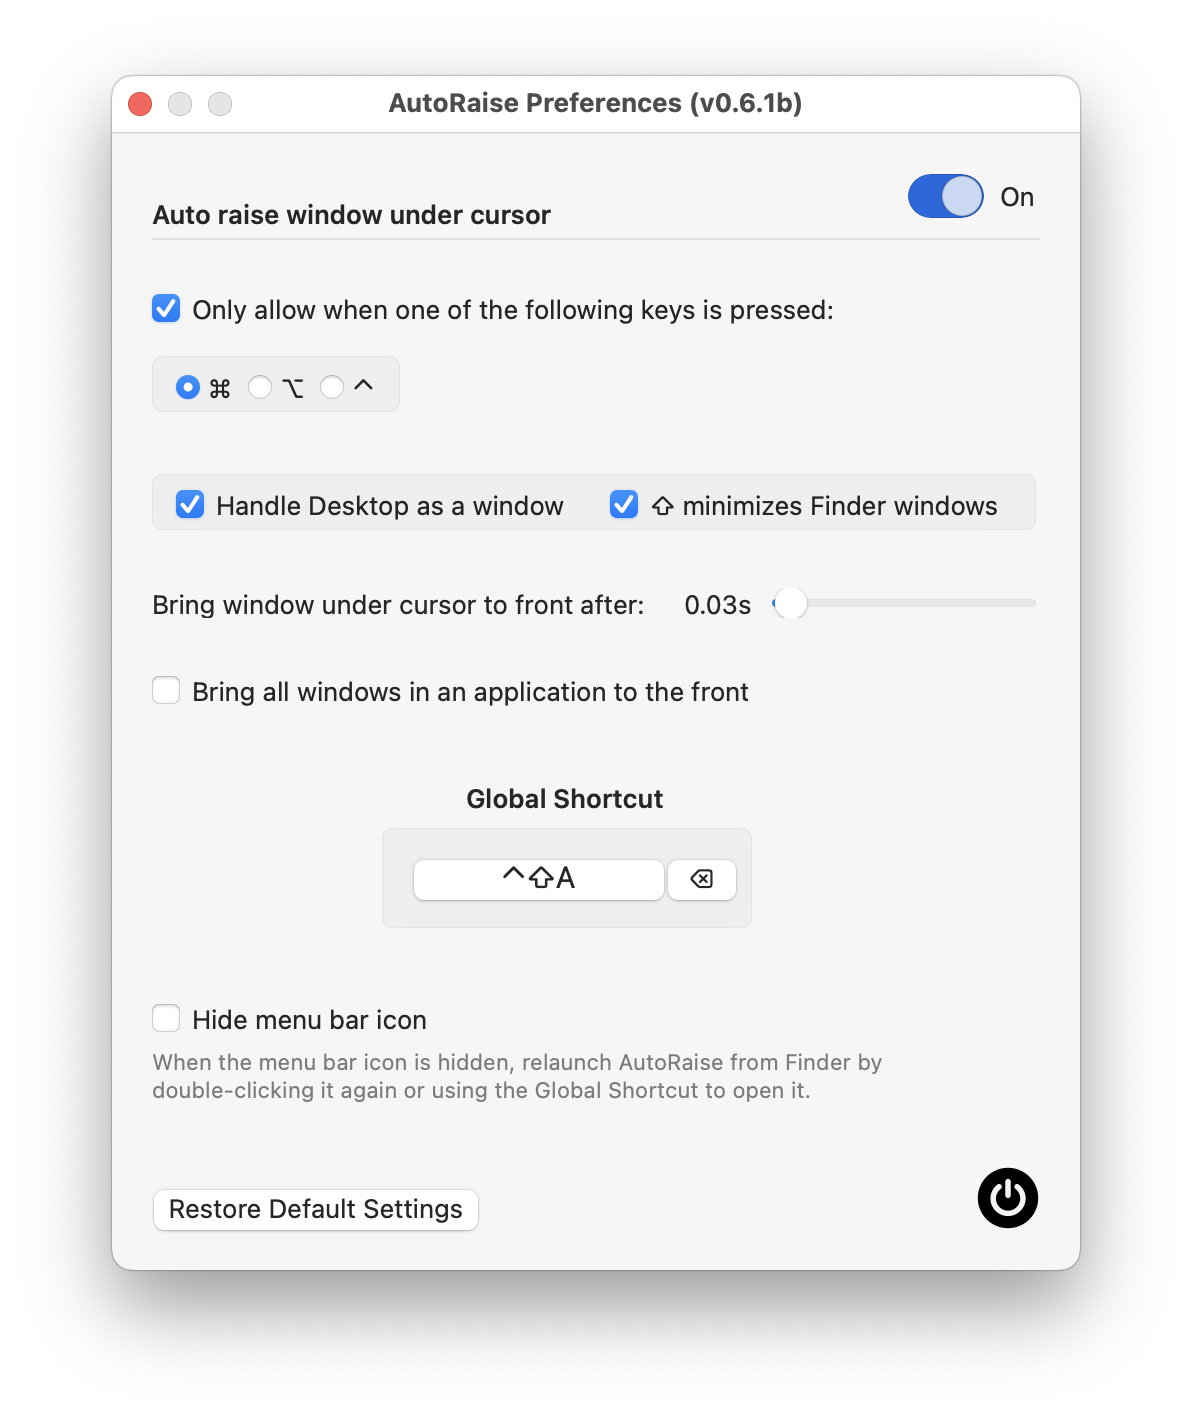
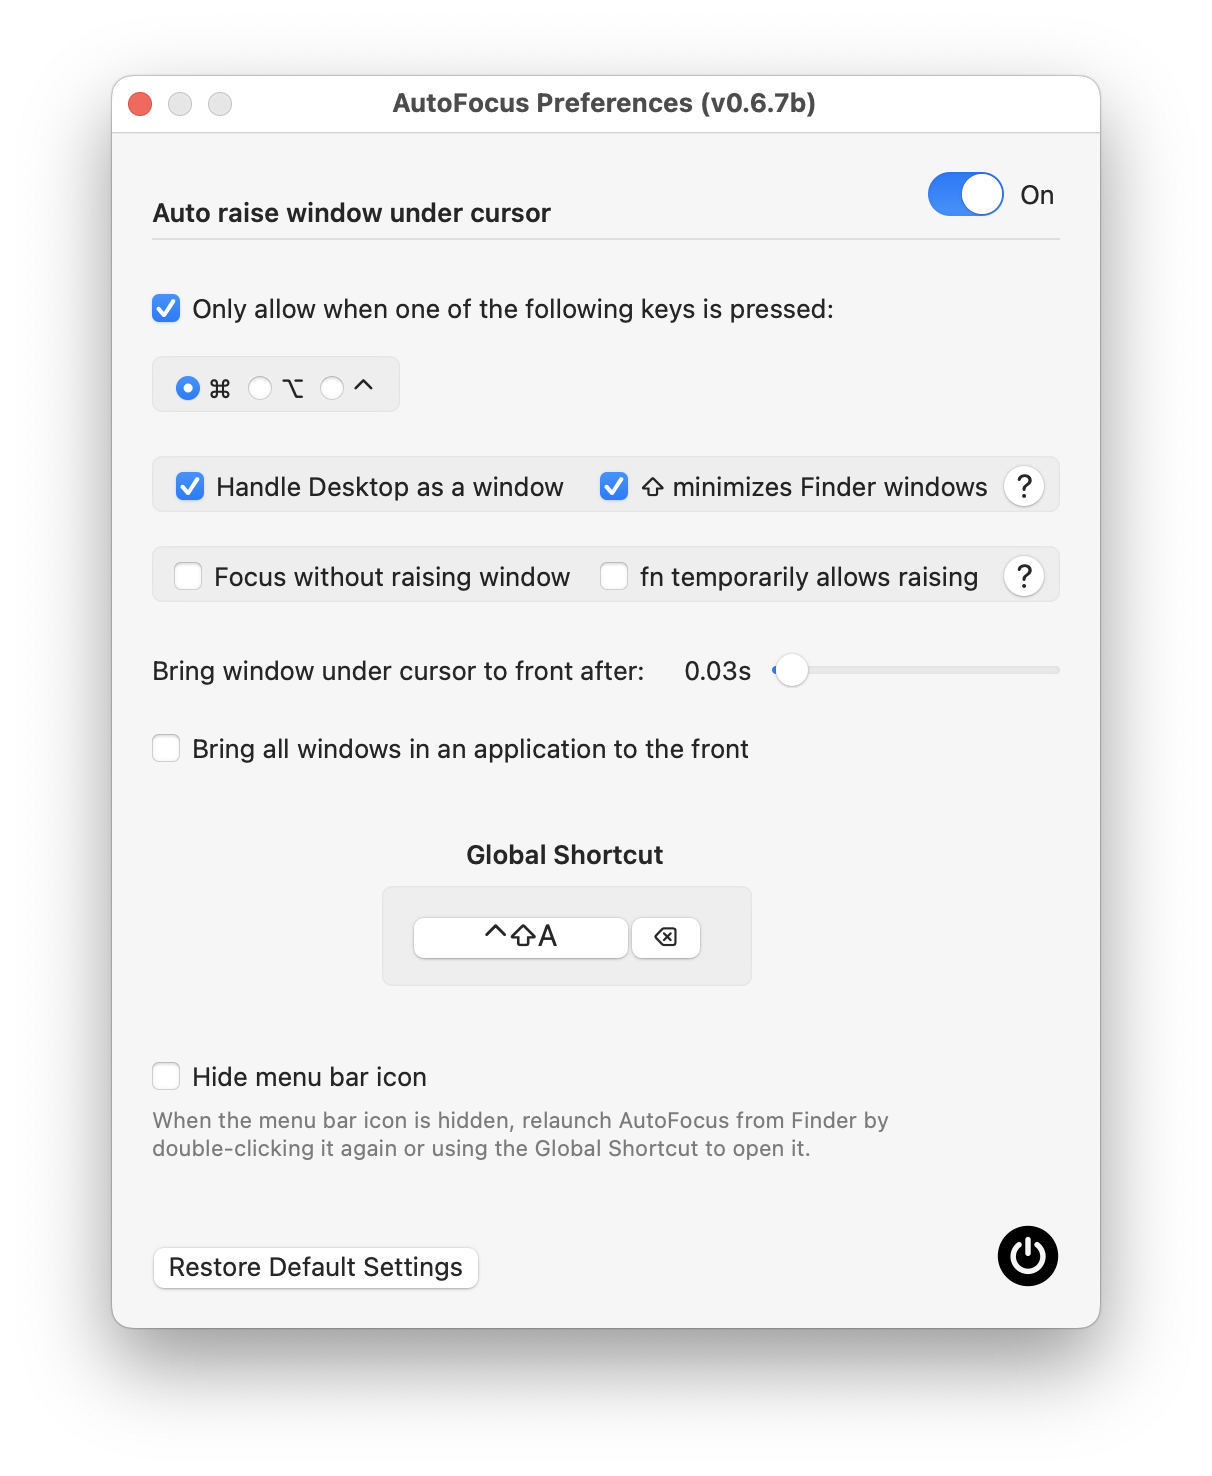
Release AutoFocus v0.6.7b

diff --git a/downloads.md b/downloads.md
@@ -48,7 +48,8 @@ Yes, they are free while in beta.
 
 | Version | Download | Release notes | Minimum OS|
 | ------- | -------- | ------------- | ----------|
-| v0.6.6 | [Public Beta](https://github.com/synappser/AutoFocus/releases/download/v0.6.6/AutoFocus_v0.6.6b.dmg) | [Release notes]({{ site.url }}{% link releases/autofocus_v0.6.6.md %}) | macOS 10.14.6|
+| v0.6.7 | [Public Beta](https://github.com/synappser/AutoFocus/releases/download/v0.6.7/AutoFocus_v0.6.7b.dmg) | [Release notes]({{ site.url }}{% link releases/autofocus_v0.6.7.md %}) | macOS 11.0|
+| v0.6.6 | Public Beta | [Release notes]({{ site.url }}{% link releases/autofocus_v0.6.6.md %}) | macOS 10.14.6|
 | v0.6.2 | Public Beta | [Release notes]({{ site.url }}{% link releases/autofocus_v0.6.2.md %}) | macOS 10.13|
 
 {:.pt-1}

diff --git a/releases/autofocus_v0.6.7.md b/releases/autofocus_v0.6.7.md
@@ -1,0 +1,19 @@
+---
+title: "AutoFocus"
+version: "0.6.7"
+date: "June 05, 2023"
+image: "images/apps/autofocus.png"
+layout: release
+---
+
+- Experimental Focus Without Raising
+- Focus without raising is enabled only if the required framework is available on the system
+- The Function modifier key (fn) allows temporarily window raising with focusing.
+- Correct preferences delay slider knob clipping in view
+- Filter Emoji & Symbols window (Ctrl-Cmd-Space)
+- Minimum OS requirements: macOS 11.0
+
+<br />
+
+{:.pt-2}
+[Downloads]({{ site.url }}{% link downloads.md %}){:.button .button-primary style="text-decoration: none;"}
